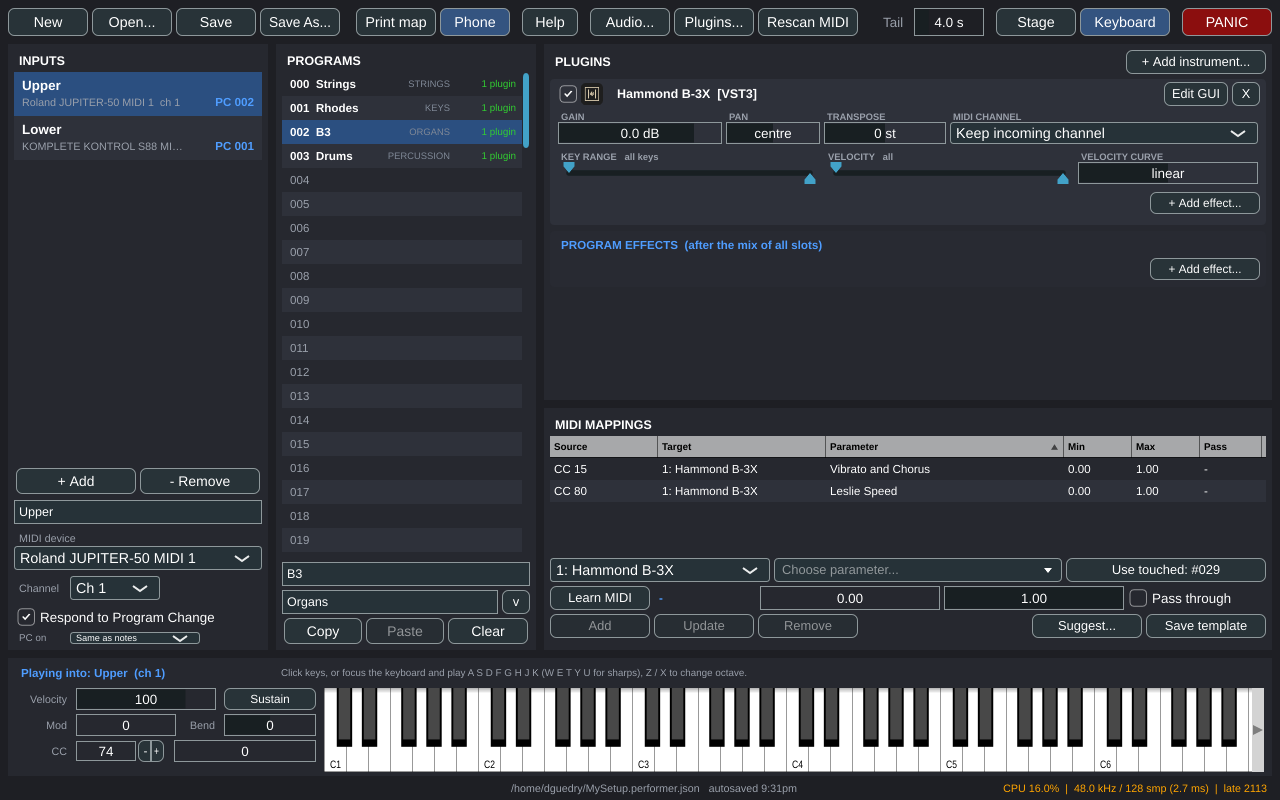
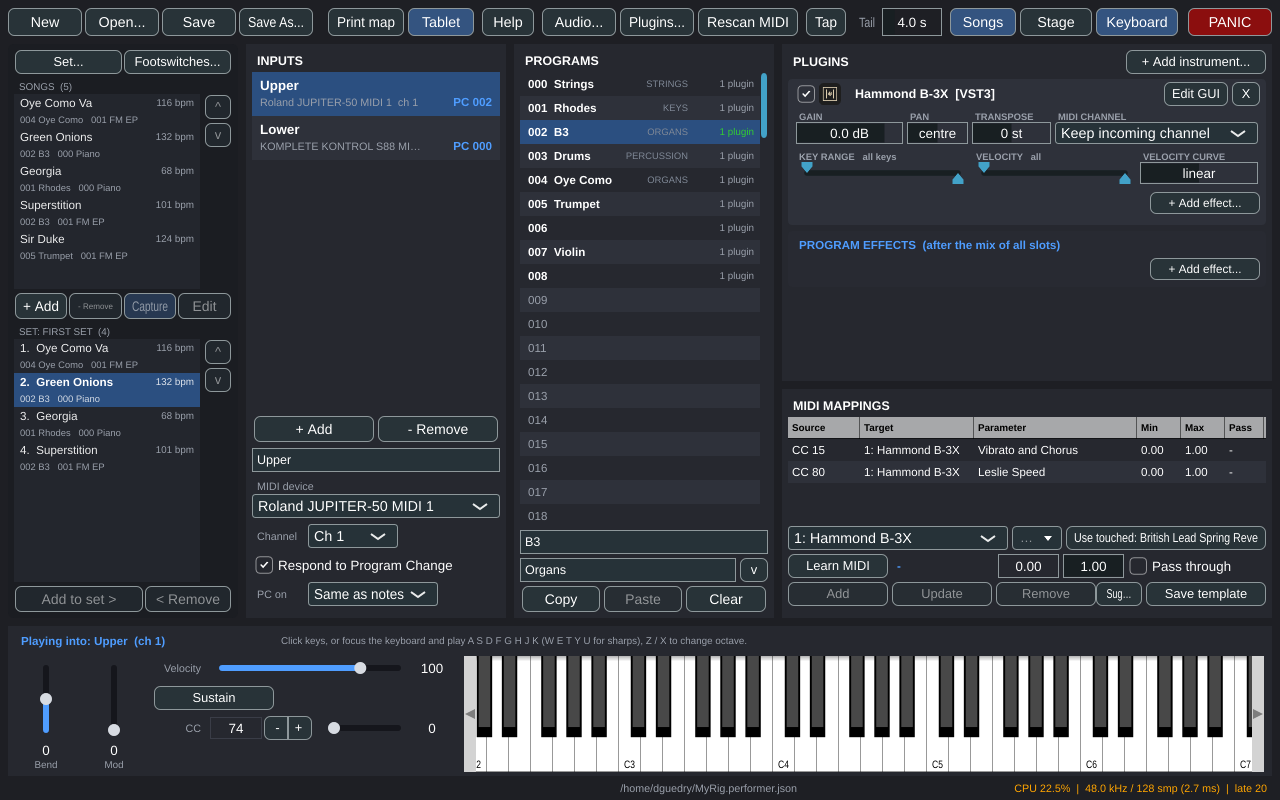
New main screenshot: the window as it is now
The old one predated songs and sets, the Tablet rename and the keyboard
rework -- it still said "Phone", had no Songs button, and showed the old flat
controller boxes that looked like text fields.

The replacement shows a set list with real song names and tempos, the current
song highlighted and matching what the inputs and program list say, a Hammond
B-3X loaded with its ranges, MIDI mappings for vibrato and Leslie speed, and
the upright pitch and mod wheels.

Captured from a setup built for the purpose rather than my own, so the song
names are songs rather than "testB3" and the status bar is not a path into a
scratch directory.

diff --git a/README.md b/README.md
@@ -10,7 +10,7 @@ with every knob, drawbar and menu live under your finger. Pull a drawbar on the
 tablet and the organ on stage moves.
 
 <p align="center">
-  <img src="docs/images/performer.png" alt="Performer: two keyboards as inputs, a program list grouped by kind, a Hammond B-3X loaded with its key and velocity ranges, and MIDI mappings for vibrato and Leslie speed" width="900">
+  <img src="docs/images/performer.png" alt="Performer: a set list of songs with their tempos, two keyboards as inputs, a program list grouped by kind, a Hammond B-3X loaded with its key and velocity ranges, and MIDI mappings for vibrato and Leslie speed" width="900">
 </p>
 
 Performer exists because the live hosts keyboard players rely on -- MainStage,
